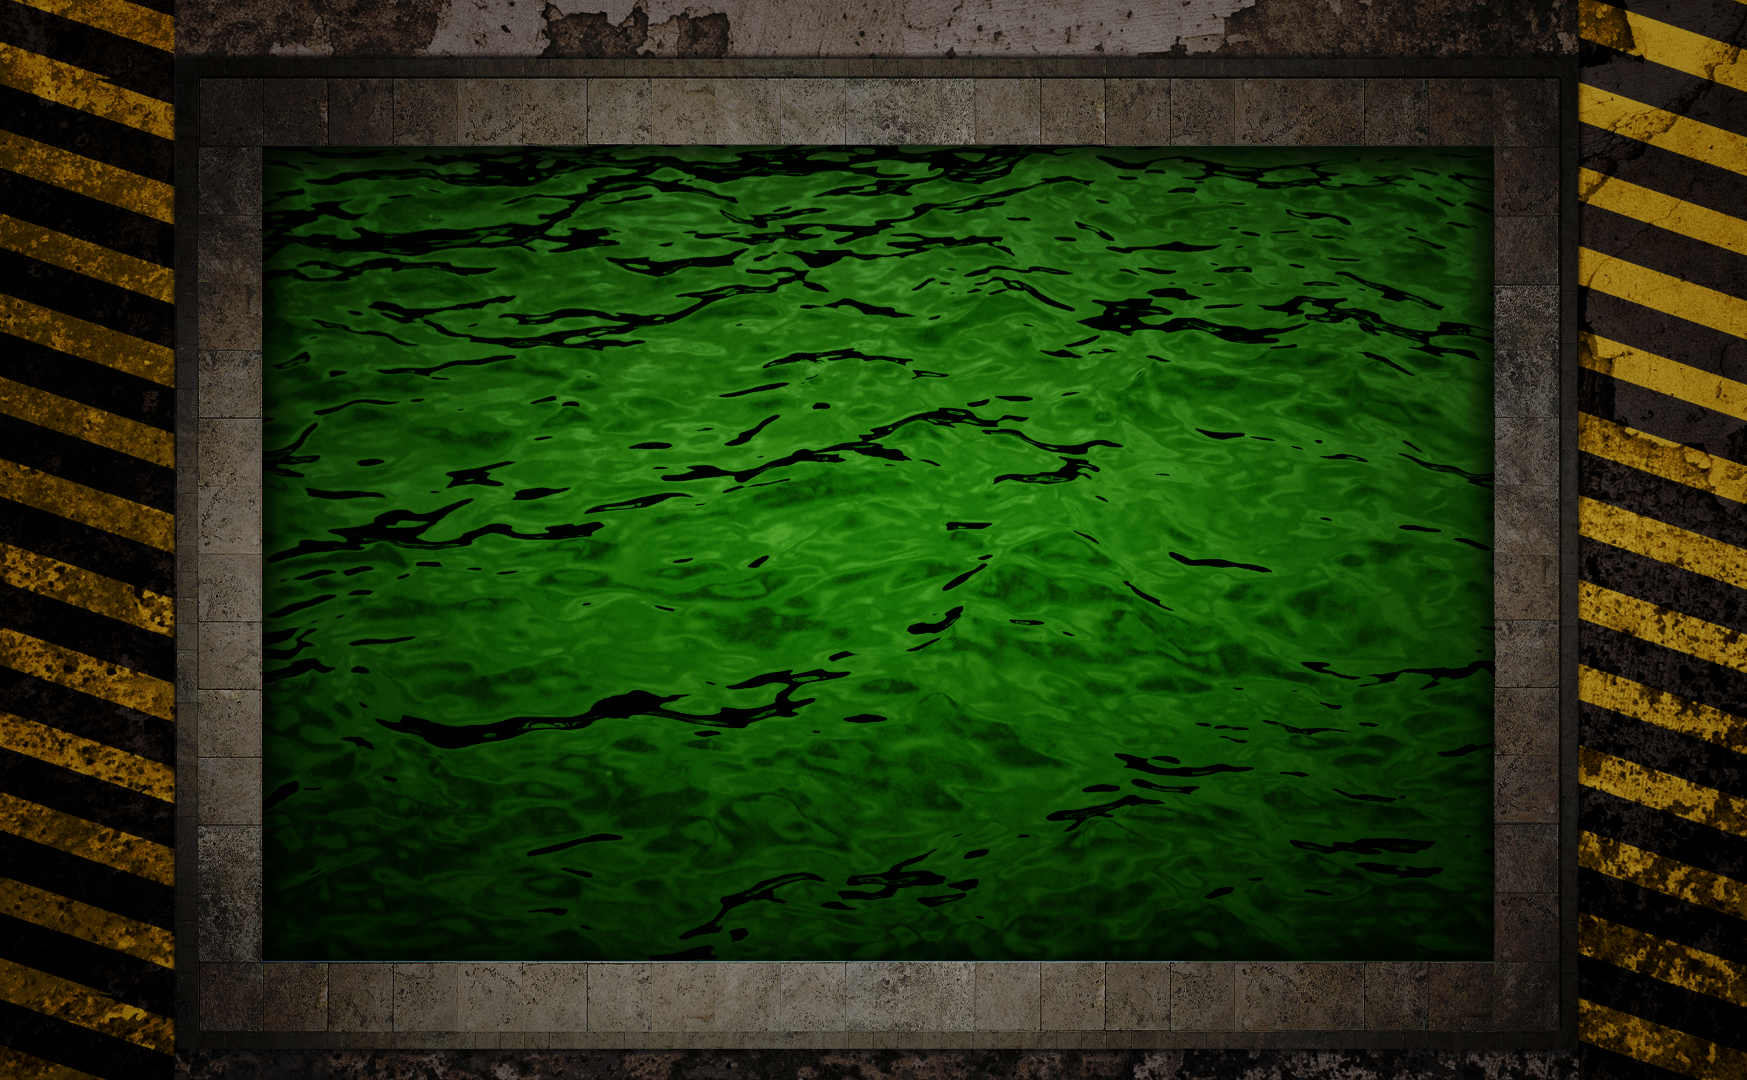
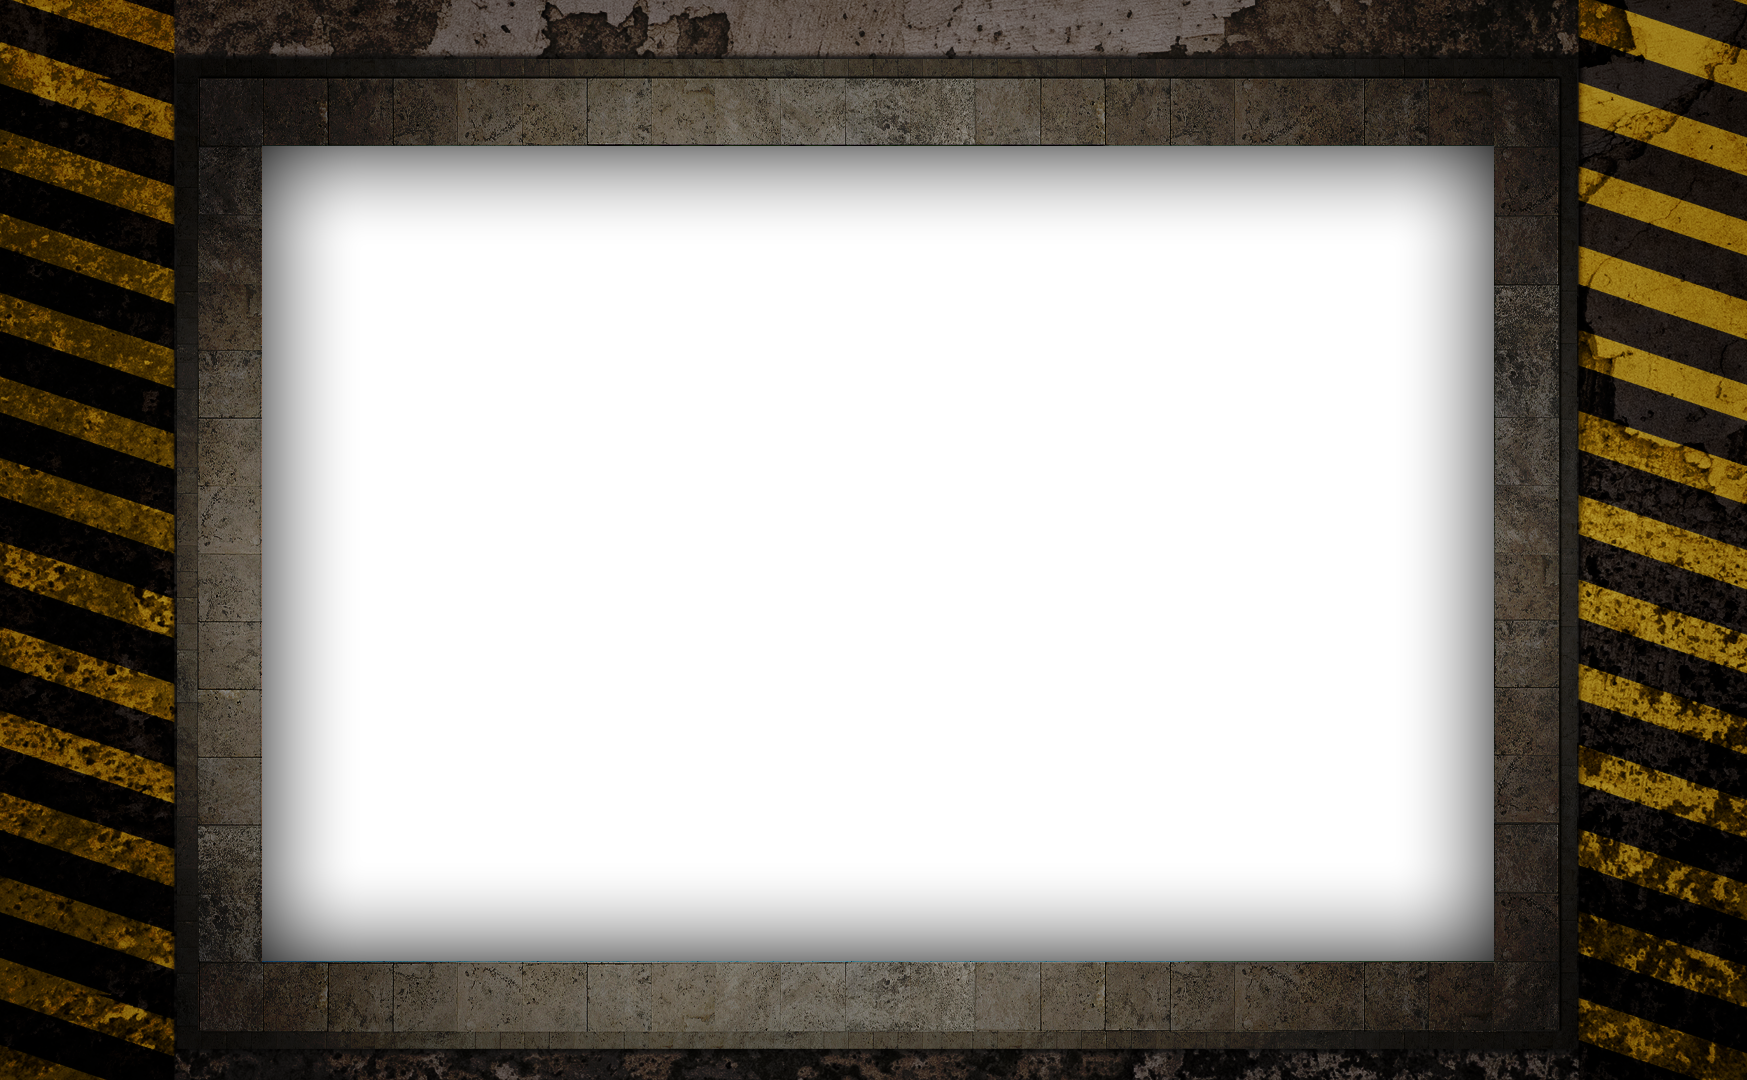
Updated Toxic Pool level
Added animated acid and spinning siren lights.

diff --git a/public/scripts/game/levels/toxic-pool-background.js b/public/scripts/game/levels/toxic-pool-background.js
@@ -1,9 +1,73 @@
 function ToxicPoolBackgroundLayer( scene ) {
 	Layer.call( this, scene );
-	
-	var background = new Background( 'Background-Toxic-Pool' );
-	this.addComponent( 'Background', background );
+
+	this.acids = [ ];
+	for( var i = 1; i < 6; i++ ) {
+		var acid = new Sprite( 'Paddle-Green' );
+		//acid.opacity = 0.33;
+		acid.i = i;
+		acid.size.y = viewport.height;
+		acid.size.x = viewport.width;
+		acid.draw = function( context ) {
+			if( this.i === 1 ) {
+				Sprite.prototype.draw.call( this, context );
+			} else {
+				context.save();
+				context.globalCompositeOperation = 'difference';
+				Sprite.prototype.draw.call( this, context );
+				context.globalAlpha = this.opacity;
+				if( this.i % 5 === 0 ) {
+					context.drawImage( this.image, this.position.x - this.size.x * this.registration.x * this.scale, this.position.y - this.size.y * this.registration.y * this.scale + this.size.y * this.scale, this.size.x * this.scale, this.size.y * this.scale );
+				} else if( this.i % 4 === 0 ) {
+					context.drawImage( this.image, this.position.x - this.size.x * this.registration.x * this.scale, this.position.y - this.size.y * this.registration.y * this.scale - this.size.y * this.scale, this.size.x * this.scale, this.size.y * this.scale );
+				} else if( this.i % 3 === 0 ) {
+					context.drawImage( this.image, this.position.x - this.size.x * this.registration.x * this.scale + this.size.x * this.scale, this.position.y - this.size.y * this.registration.y * this.scale, this.size.x * this.scale, this.size.y * this.scale );
+				} else if( this.i % 2 === 0 ) {
+					context.drawImage( this.image, this.position.x - this.size.x * this.registration.x * this.scale - this.size.x * this.scale, this.position.y - this.size.y * this.registration.y * this.scale, this.size.x * this.scale, this.size.y * this.scale );
+				}
+				context.restore();
+			}
+		};
+
+		if( i === 1 ) {
+			acid.rotation = 180;
+			acid.velocity.x = 0;
+		} else if( i % 5 === 0 ) {
+			acid.velocity.y = -viewport.width * 0.11 * (i / 5);
+		} else if( i % 4 === 0 ) {
+			acid.velocity.y = viewport.width * 0.11 * (i / 4);
+		} else if( i % 3 === 0 ) {
+			acid.velocity.x = -viewport.width * 0.11 * (i / 3);
+		} else if( i % 2 === 0 ) {
+			acid.velocity.x = viewport.width * 0.11 * (i / 2);
+		}
+
+		this.addComponent( 'Acid' + i, acid );
+		this.acids.push( acid );
+	}
+
+	this.background = new Background( 'Background-Toxic-Pool' );
+	this.addComponent( 'Background', this.background );
 }
 
 ToxicPoolBackgroundLayer.prototype = new Layer;
 ToxicPoolBackgroundLayer.prototype.constructor = ToxicPoolBackgroundLayer;
+
+ToxicPoolBackgroundLayer.prototype.update = function( deltaTime ) {
+	Layer.prototype.update.call( this, deltaTime );
+
+	this.acids[0].scale = 1.5 + Math.sin( app.gameTime / 1000 ) / 2;
+
+	for( var i = 0; i < this.acids.length; i++ )
+	{
+		if( this.acids[i].boundingBox.left > viewport.width ) {
+			this.acids[i].position.x -= viewport.width;
+		} else if( this.acids[i].boundingBox.right < 0 ) {
+			this.acids[i].position.x += viewport.width;
+		} else if( this.acids[i].boundingBox.top > viewport.height ) {
+			this.acids[i].position.y -= viewport.height;
+		} else if( this.acids[i].boundingBox.bottom < 0 ) {
+			this.acids[i].position.y += viewport.height;
+		}
+	}
+};

diff --git a/public/scripts/game/scenes/kombat-scene.js b/public/scripts/game/scenes/kombat-scene.js
@@ -19,10 +19,10 @@ function KombatScene( ) {
 	
 	//this.startMatch( );
 	this.changeState( this.states.fighting );
-	//this.layers['Kombat'].setBall( Balls.RANDOM );
+	//this.layers['Kombat'].setBall( Balls.DEFAULT );
 
 	this.screamSound = new Sound( 'Scream' );
-	this.setLevel( Levels.TOWER );
+	this.setLevel( Levels.TOXIC_POOL );
 }
 
 KombatScene.prototype = new Scene;
@@ -35,6 +35,10 @@ KombatScene.prototype.addKombatant = function( kombatant ) {
 KombatScene.prototype.changeState = function( state ) {
 	this.state = state;
 	this.stateTime = 0;
+};
+
+KombatScene.prototype.setBall = function( ball ) {
+	this.layers['Kombat'].setBall( Balls.DEFAULT );
 };
 
 KombatScene.prototype.setLevel = function( level ) {

diff --git a/public/scripts/game/levels/toxic-pool-foreground.js b/public/scripts/game/levels/toxic-pool-foreground.js
@@ -1,6 +1,21 @@
 function ToxicPoolForegroundLayer( scene ) {
 	Layer.call( this, scene );
+
+	this.sirens = new Sprite( 'Sirens' );
+	this.sirens.size.x = viewport.width * 1.25;
+	this.sirens.size.y = viewport.height * 1.25;
+	this.addComponent( 'Sirens', this.sirens );
 }
 
 ToxicPoolForegroundLayer.prototype = new Layer;
 ToxicPoolForegroundLayer.prototype.constructor = ToxicPoolForegroundLayer;
+
+ToxicPoolForegroundLayer.prototype.update = function( deltaTime ) {
+	Layer.prototype.update.call( this, deltaTime );
+
+	this.sirens.opacity = 0.25 + Math.sin( app.gameTime / 250 ) / 4;
+	this.sirens.rotation += 180 * deltaTime;
+	if( this.sirens.rotation > 360 ) {
+		this.sirens.rotation -= 360;
+	}
+};

diff --git a/public/scripts/game/scenes/pick-paddle-scene.js b/public/scripts/game/scenes/pick-paddle-scene.js
@@ -4,7 +4,7 @@ function PickPaddleScene( )
 
 	var paddleScale = 1.75;
 
-	this.level = Levels.TOXIC_POOL;
+	this.level = Levels.RANDOM;
 	
 	this.mainLayer = this.addLayer( 'MainLayer', new Layer( ) );
 	this.mainLayer.addComponent( 'Background', new Background( 'Background-Title' ) );
@@ -233,6 +233,7 @@ PickPaddleScene.prototype.update = function( deltaTime )
 			kombatScene.addKombatant( player );
 			kombatScene.addKombatant( computer );
 			kombatScene.setLevel( this.level );
+			kombatScene.setBall( Balls.DEFAULT );
 			SceneManager.changeScene( kombatScene, Transitions.NONE );
 		}
 	}

diff --git a/public/scripts/game/scenes/hud-layer.js b/public/scripts/game/scenes/hud-layer.js
@@ -62,7 +62,7 @@ function HUDLayer( scene ) {
 HUDLayer.prototype = new Layer;
 HUDLayer.prototype.constructor = HUDLayer;
 
-HUDLayer.prototype.draw = function( context ) { };
+//HUDLayer.prototype.draw = function( context ) { };
 
 HUDLayer.prototype.addAnnouncement = function( announcement ) {
 	var announcement = new Text( announcement );
